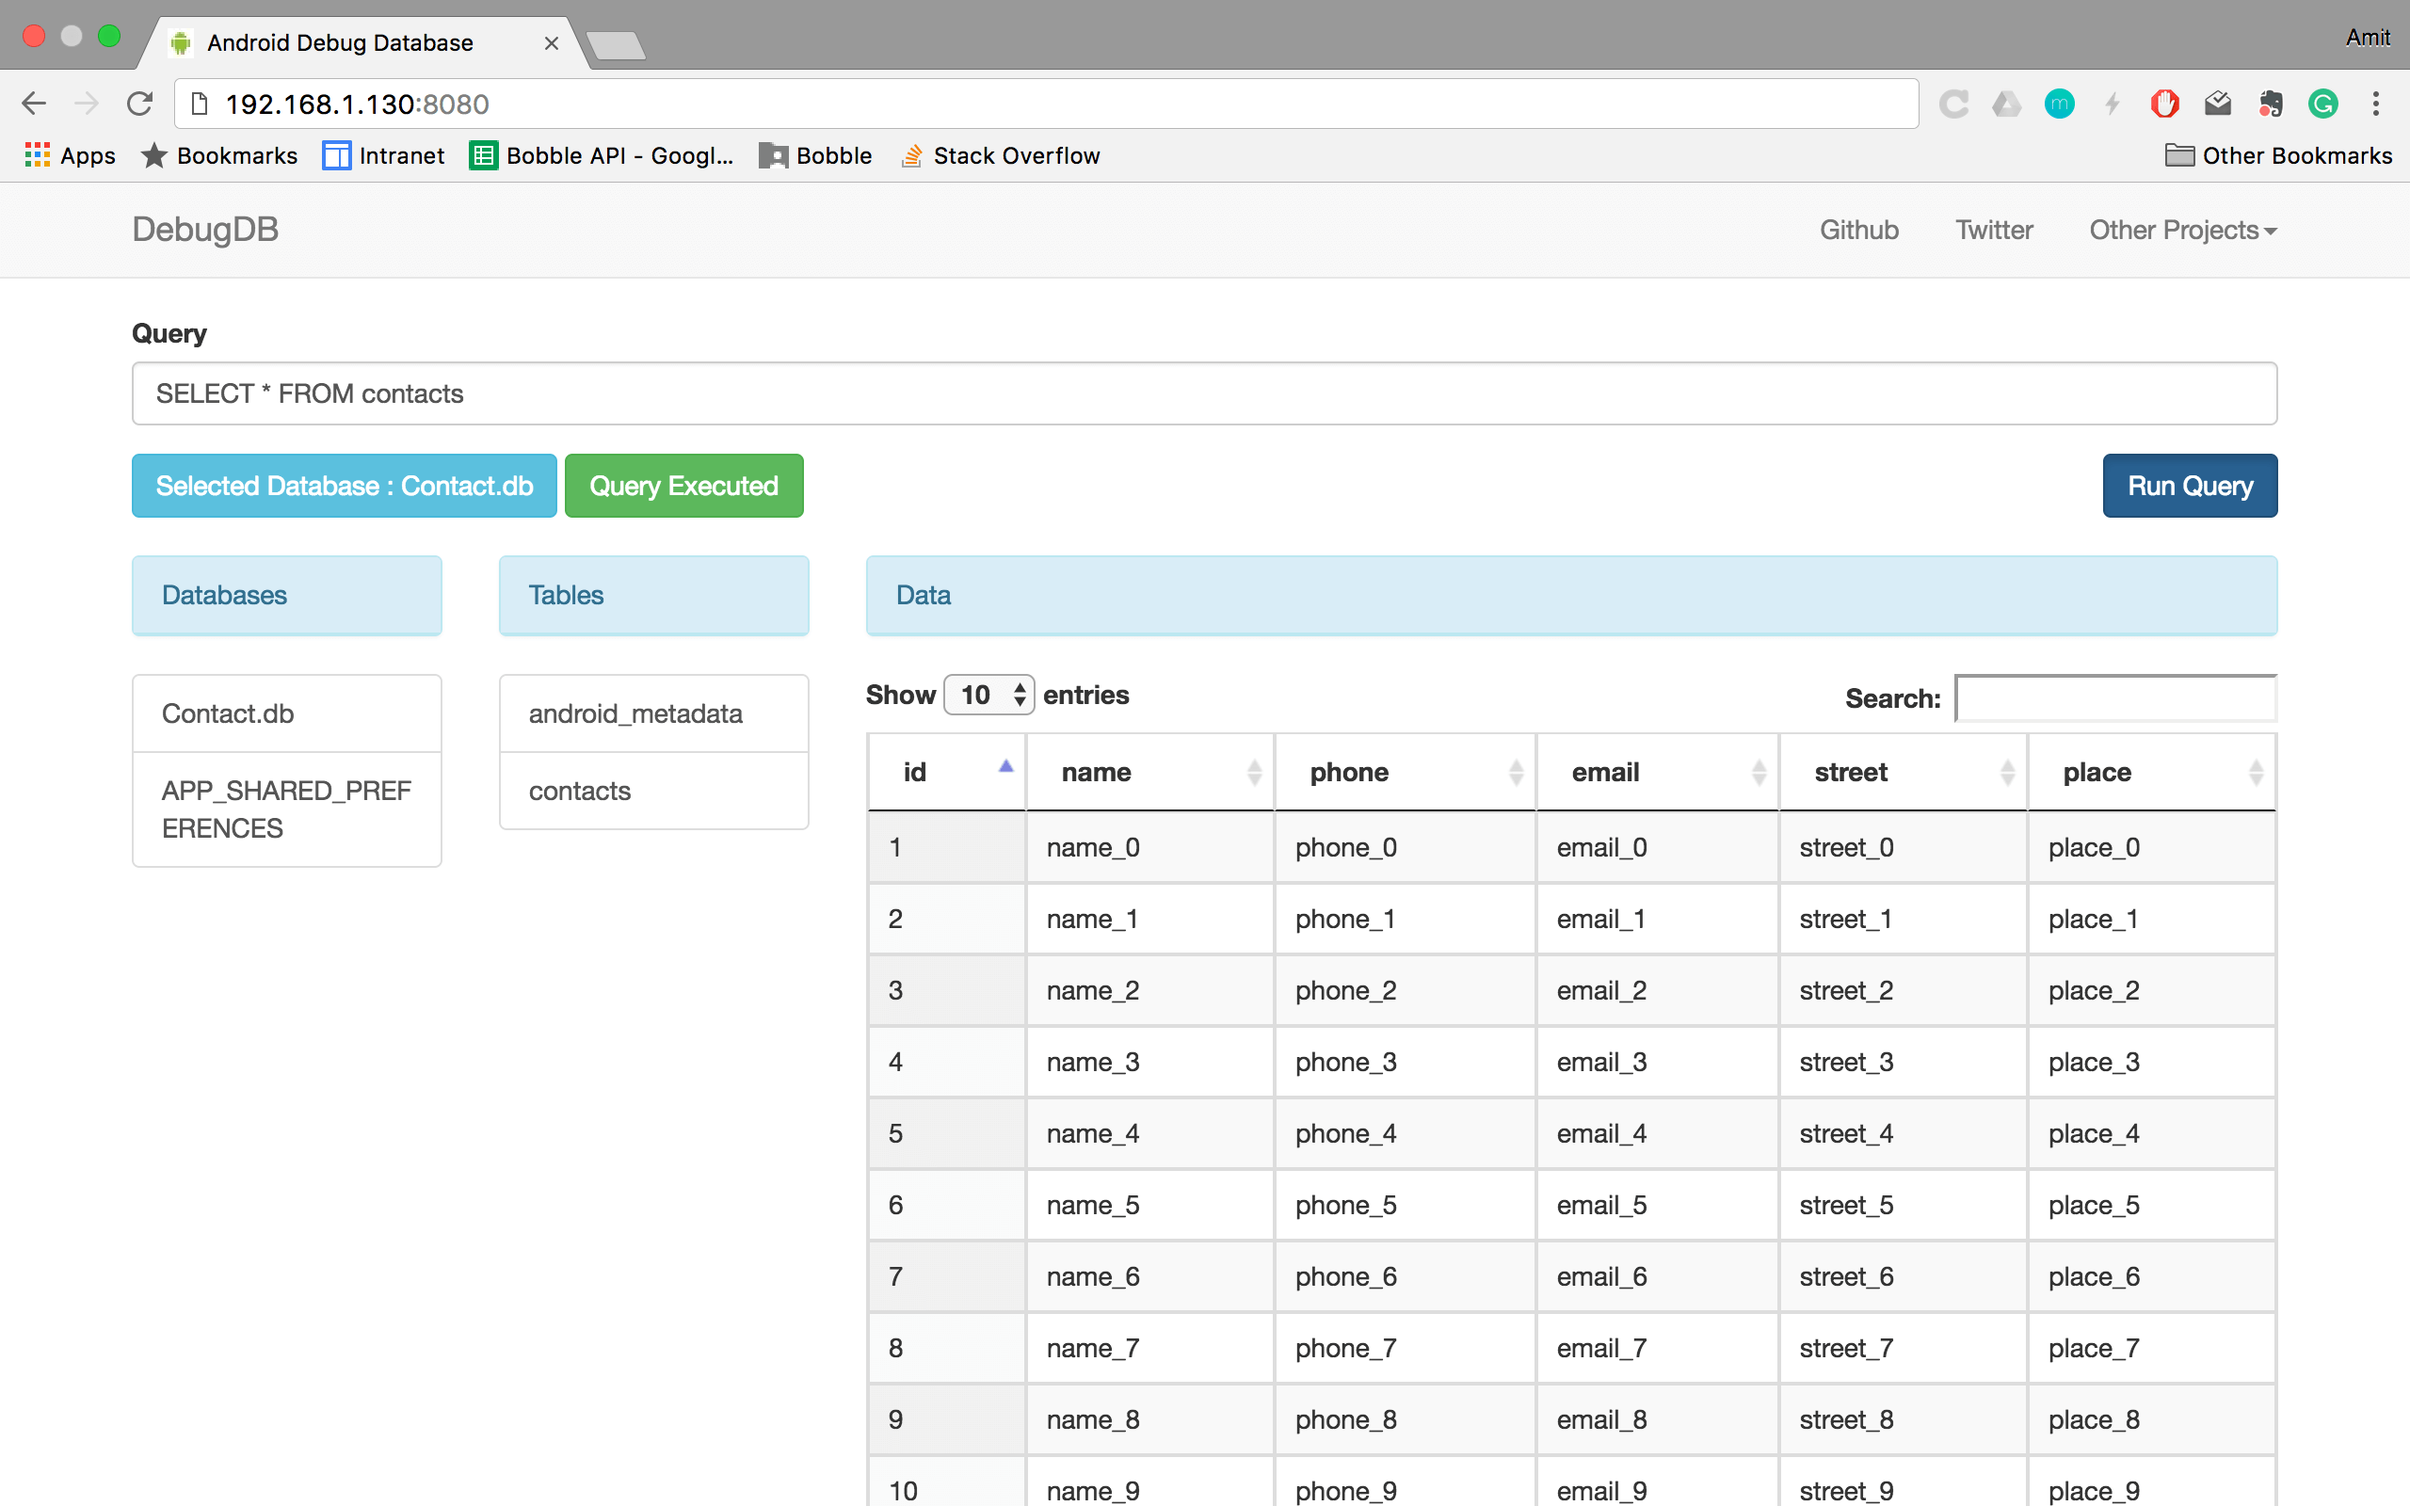
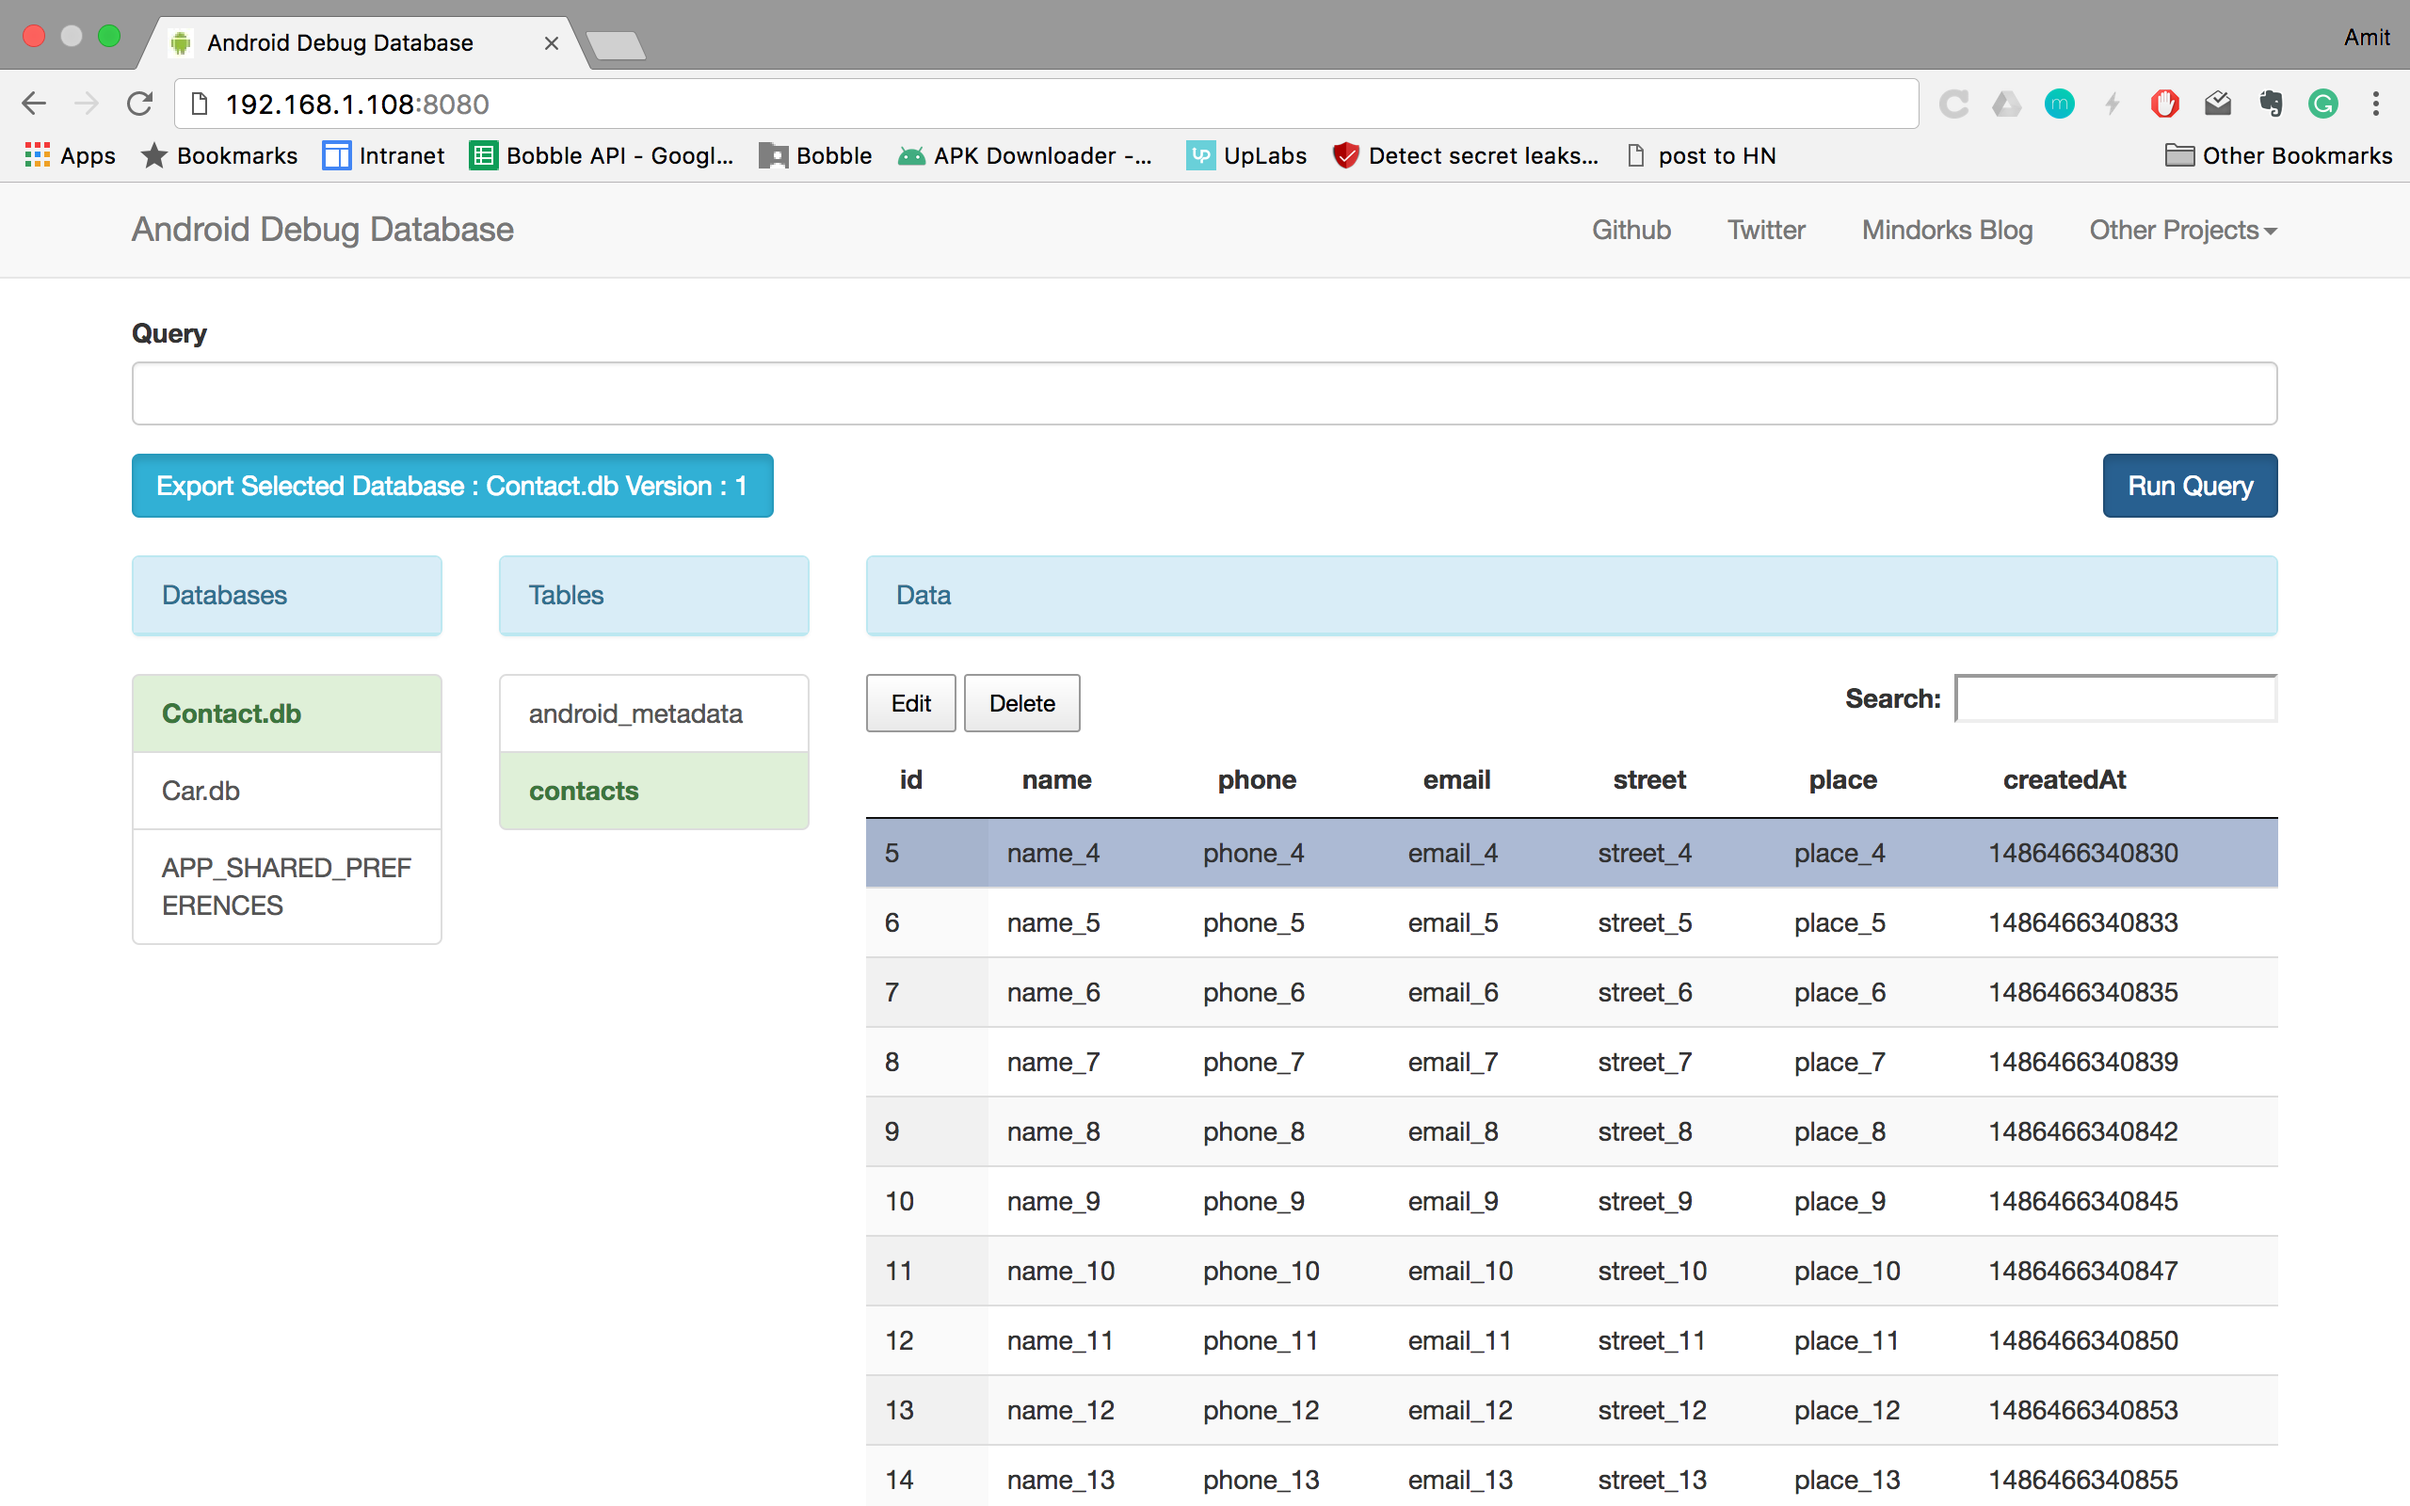
Add Edit image

diff --git a/README.md b/README.md
@@ -55,7 +55,11 @@ debug {
 
 You will see something like this :
 
+### Seeing values
 <img src=https://raw.githubusercontent.com/amitshekhariitbhu/Android-Debug-Database/master/assets/debugdb.png >
+
+### Editing values
+<img src=https://raw.githubusercontent.com/amitshekhariitbhu/Android-Debug-Database/master/assets/debugdbedit.png >
 
 ### Working with emulator
 - Android Default Emulator: run `adb forward tcp:8080 tcp:8080` and open http://localhost:8080
